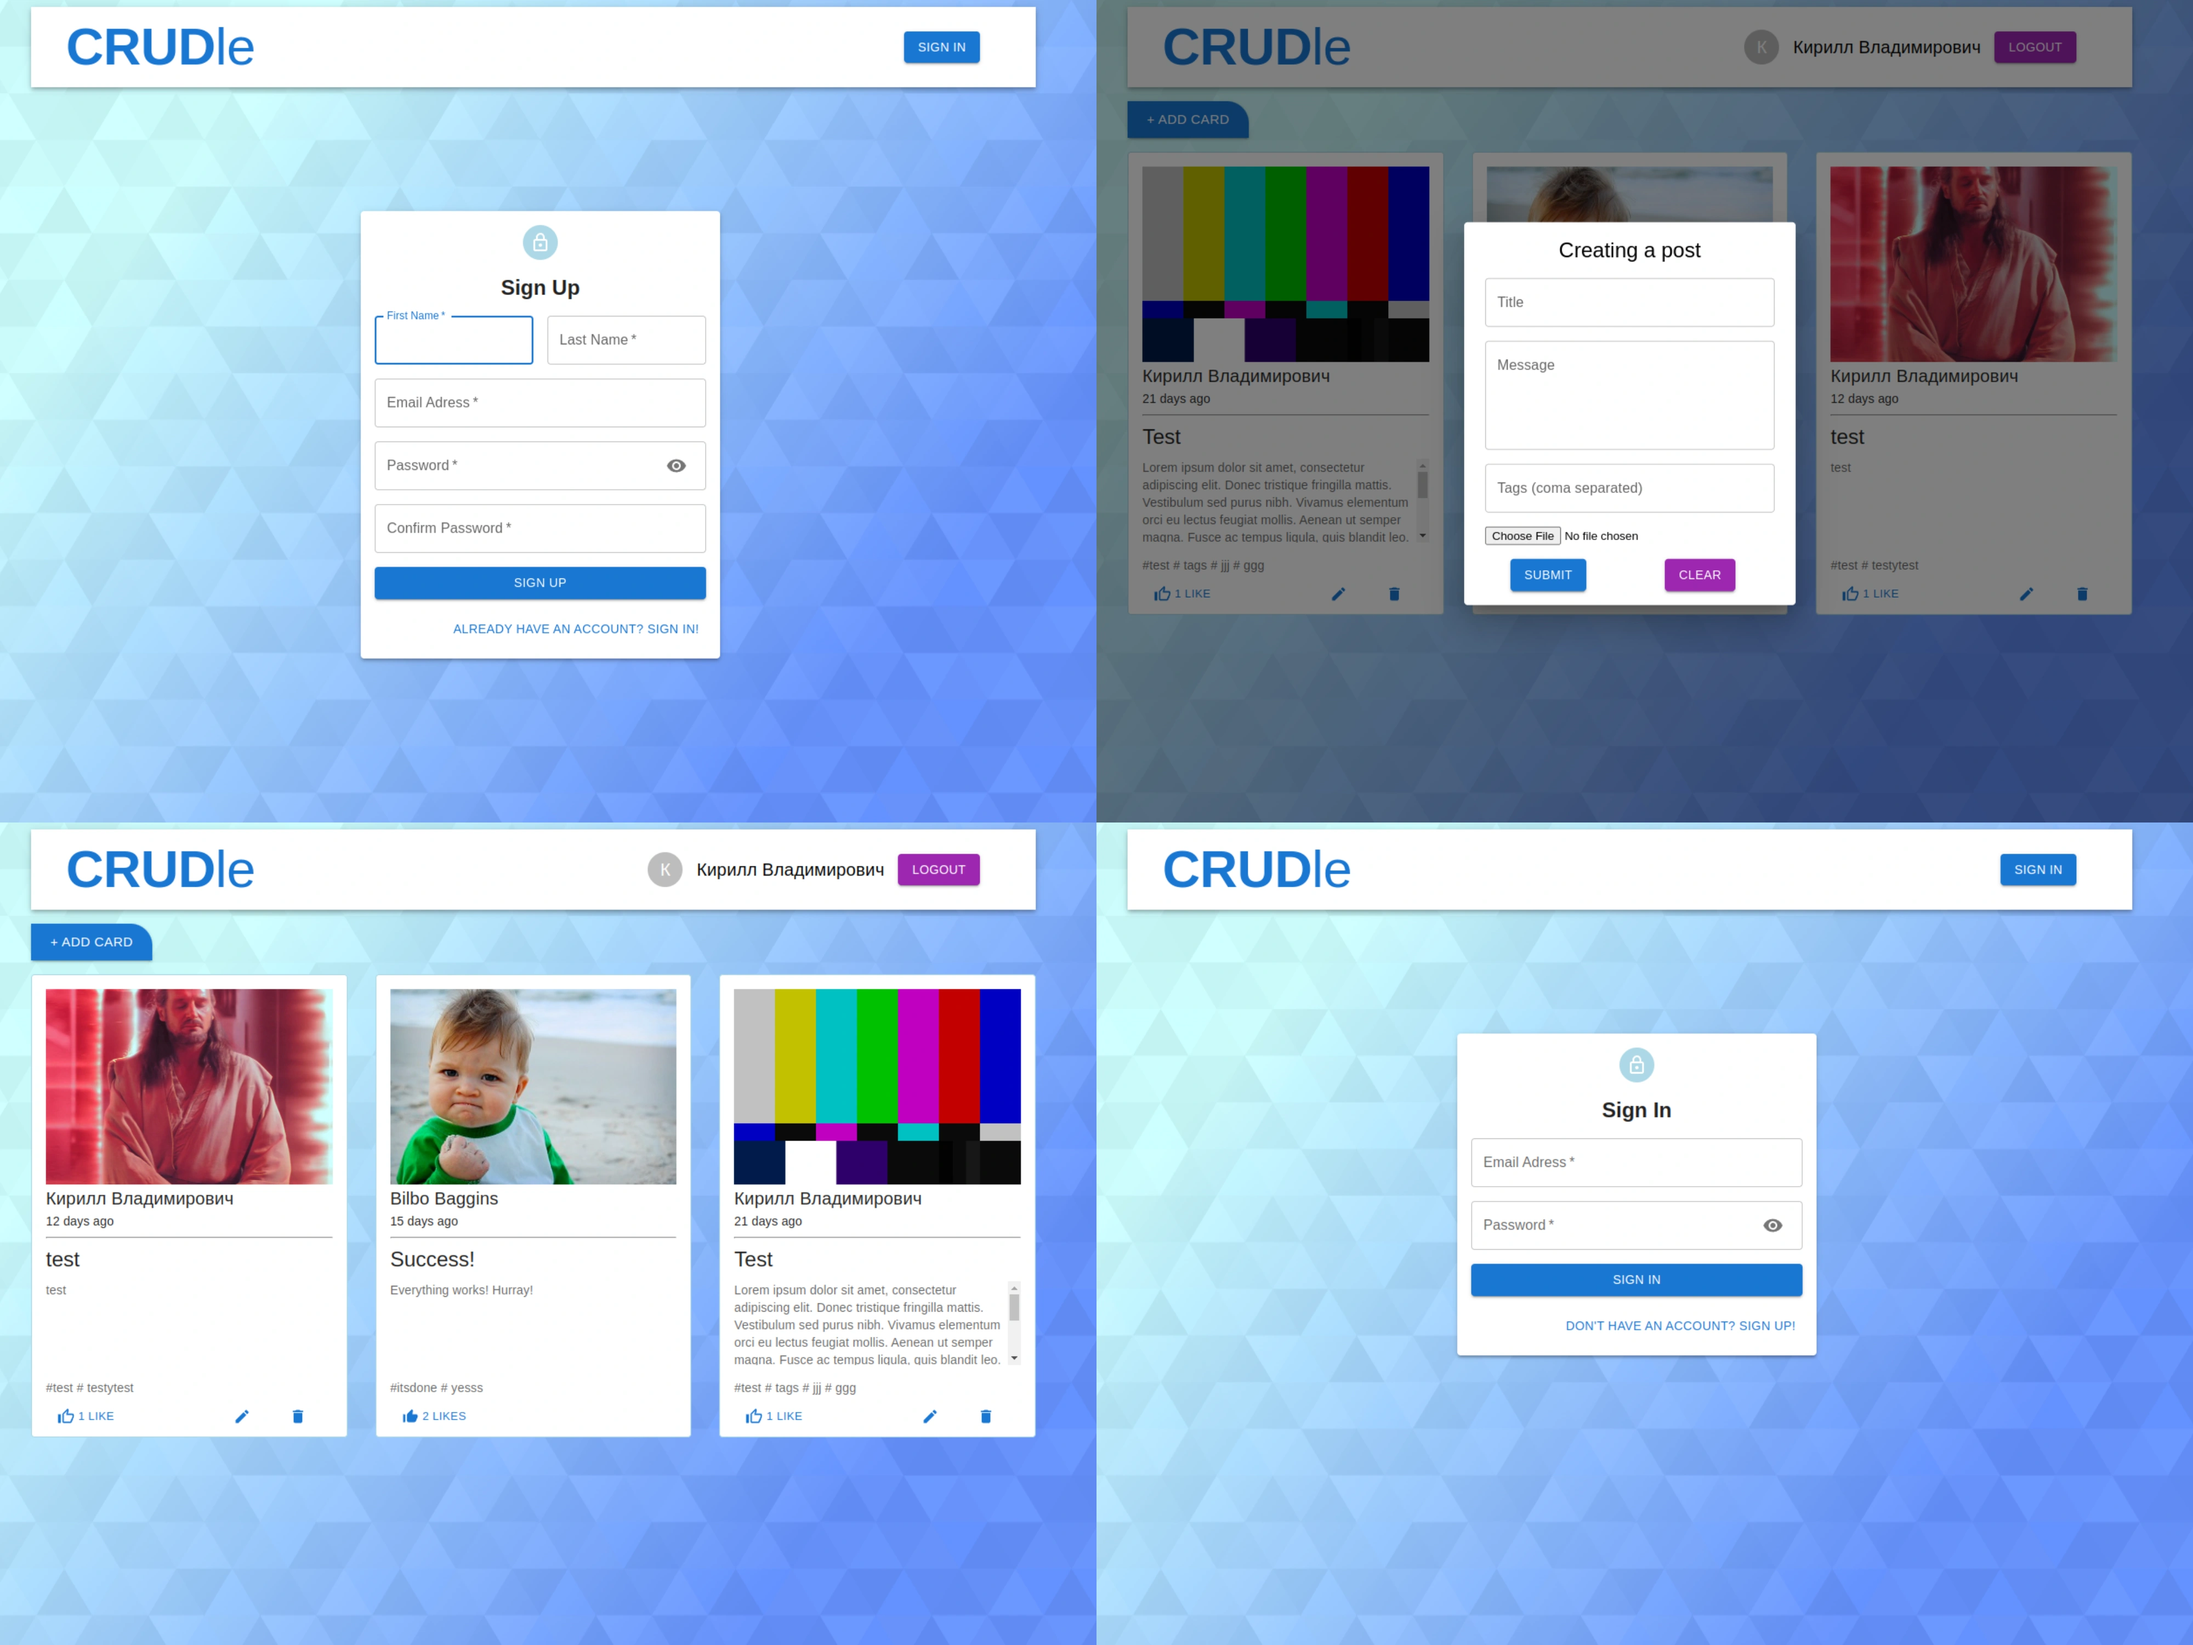
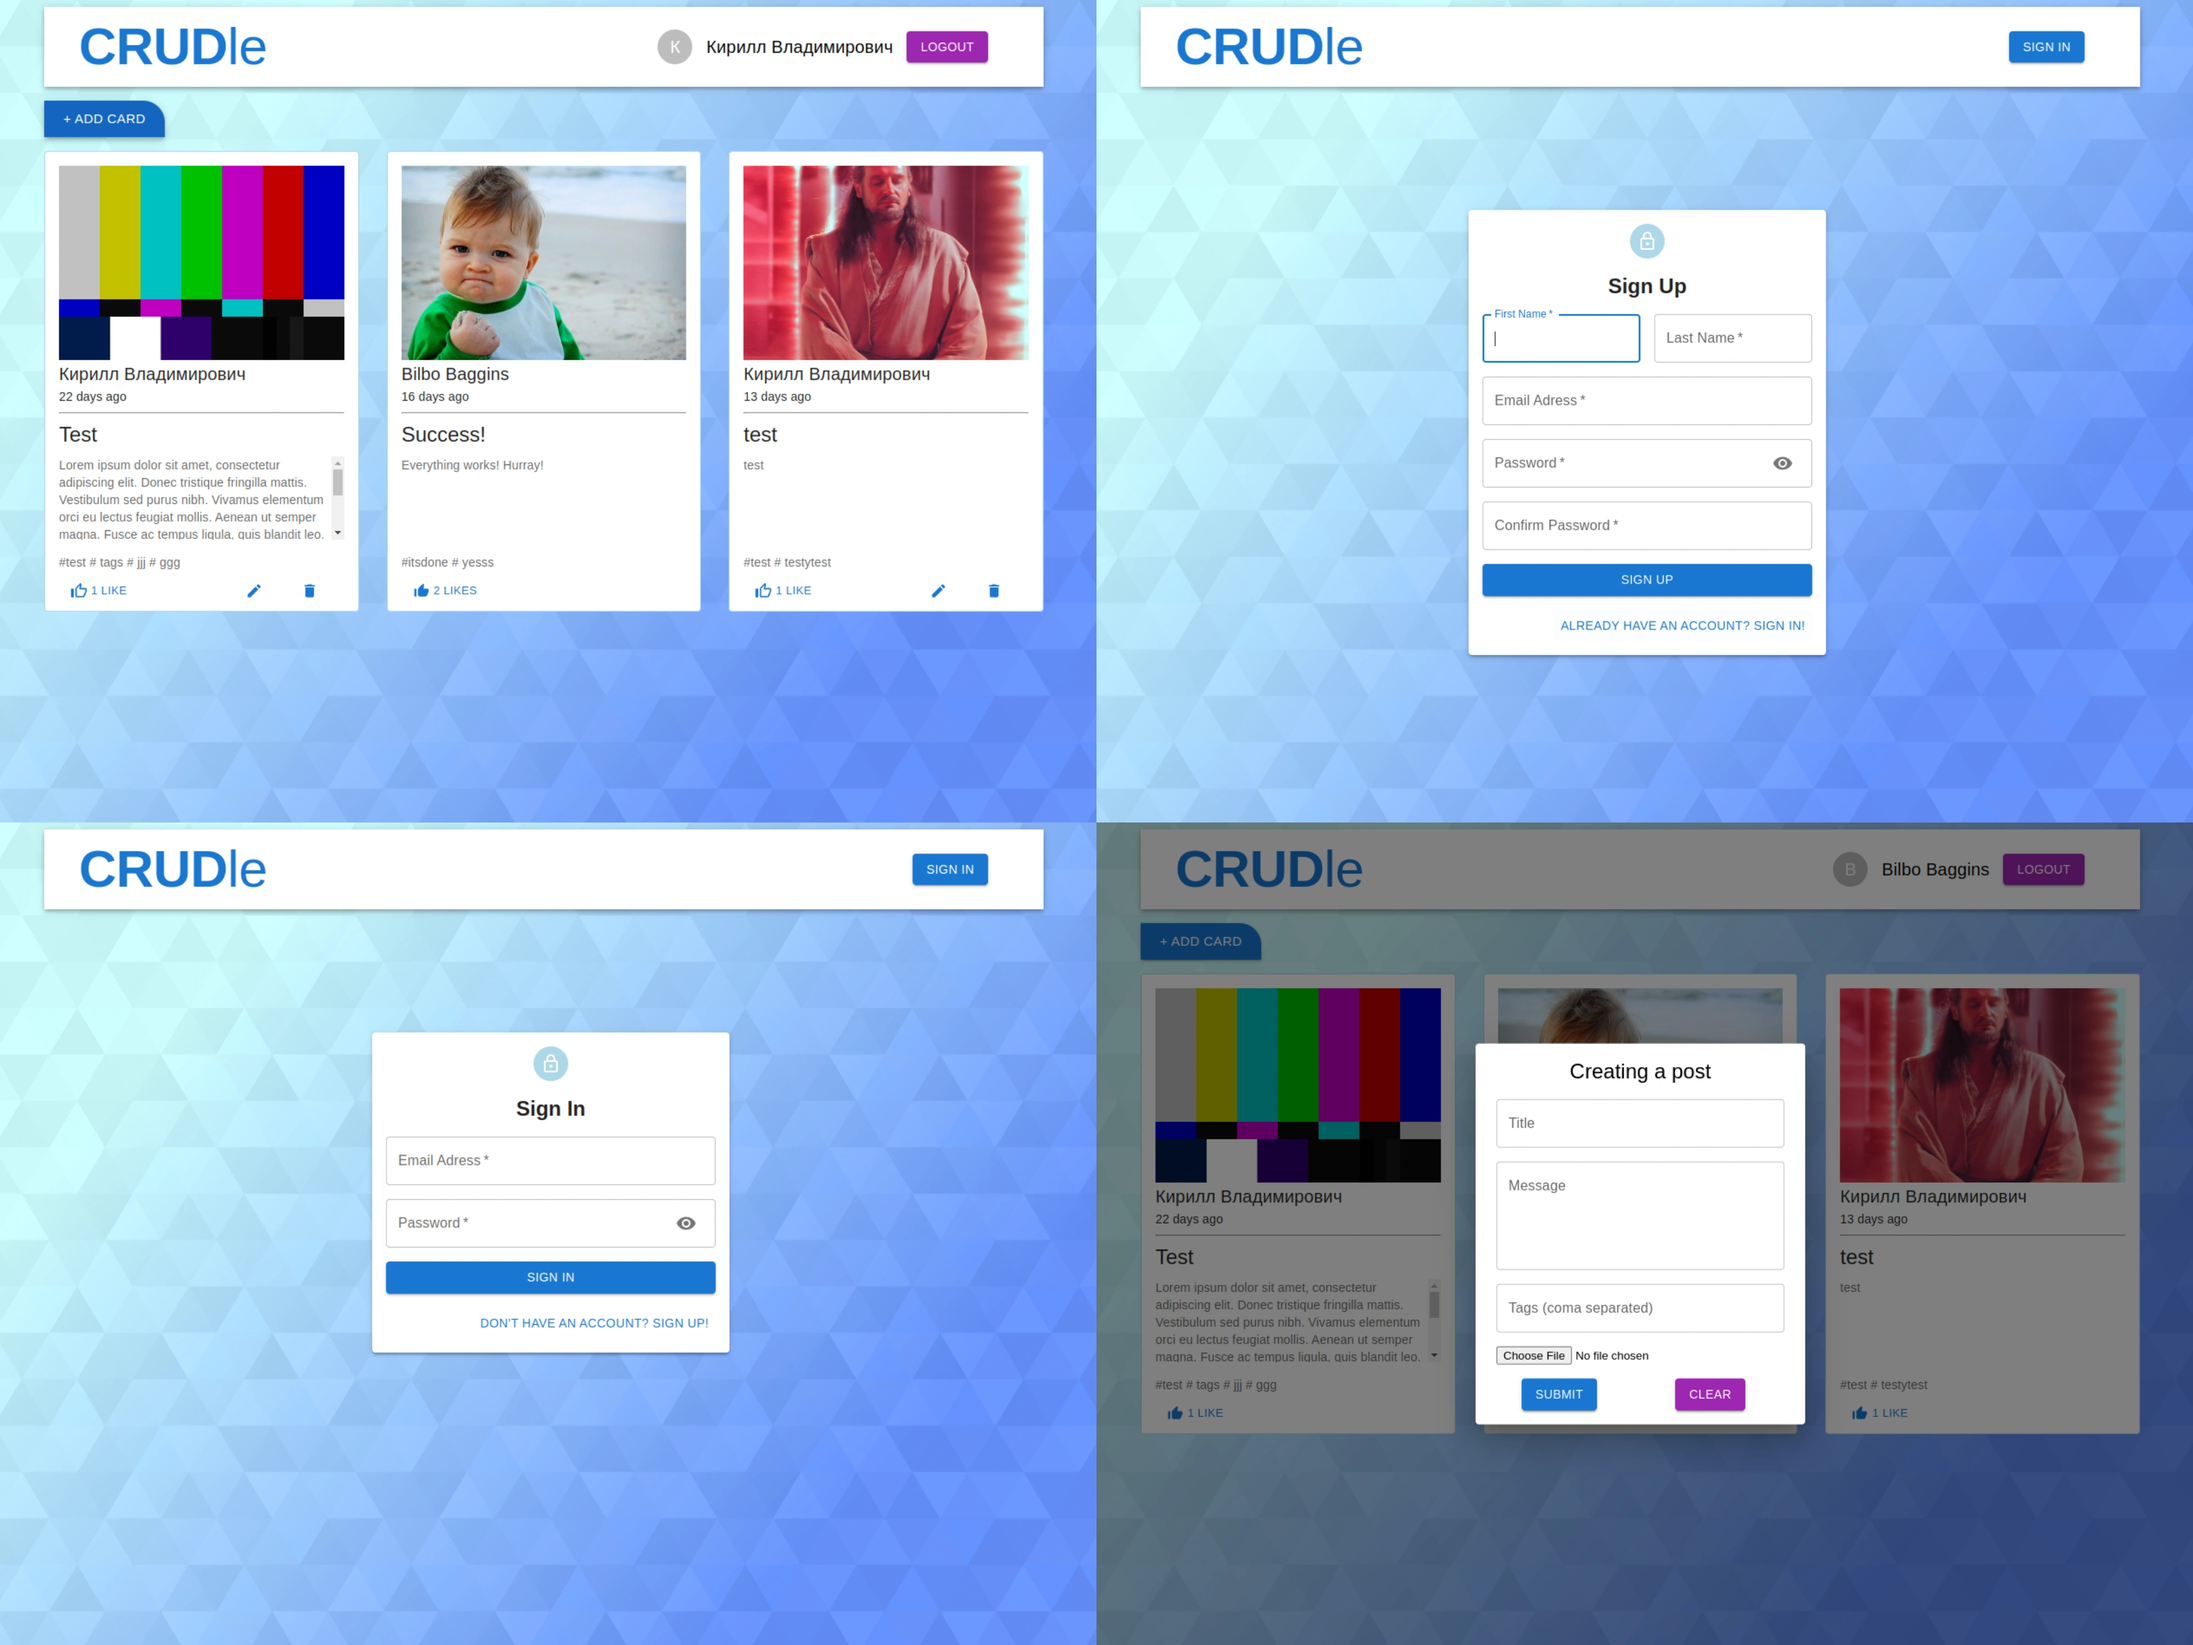
preview image

diff --git a/client/src/components/Posts/Posts.jsx b/client/src/components/Posts/Posts.jsx
@@ -10,7 +10,7 @@ const Posts = ({ setCurrentId, switchShowModal }) => {
   return (
     !posts.length ? <CircularProgress /> : (
       <Grid container alignItems="stretch" spacing={4}>
-        {posts.reverse().map((post) => (
+        {posts.map((post) => (
           <Grid item key={post._id} xs={12} sm={6} md={4}>
             <Post post={post} setCurrentId={setCurrentId} switchShowModal={switchShowModal} />
           </Grid>

diff --git a/client/src/components/Form/ModalForm.jsx b/client/src/components/Form/ModalForm.jsx
@@ -13,7 +13,7 @@ const style = {
   left: '50%',
   transform: 'translate(-50%, -50%)',
   bgcolor: 'background.paper',
-  borderRadius: '15px',
+  borderRadius: '4px',
   boxShadow: 24,
   p: '1rem',
   width: 380,
